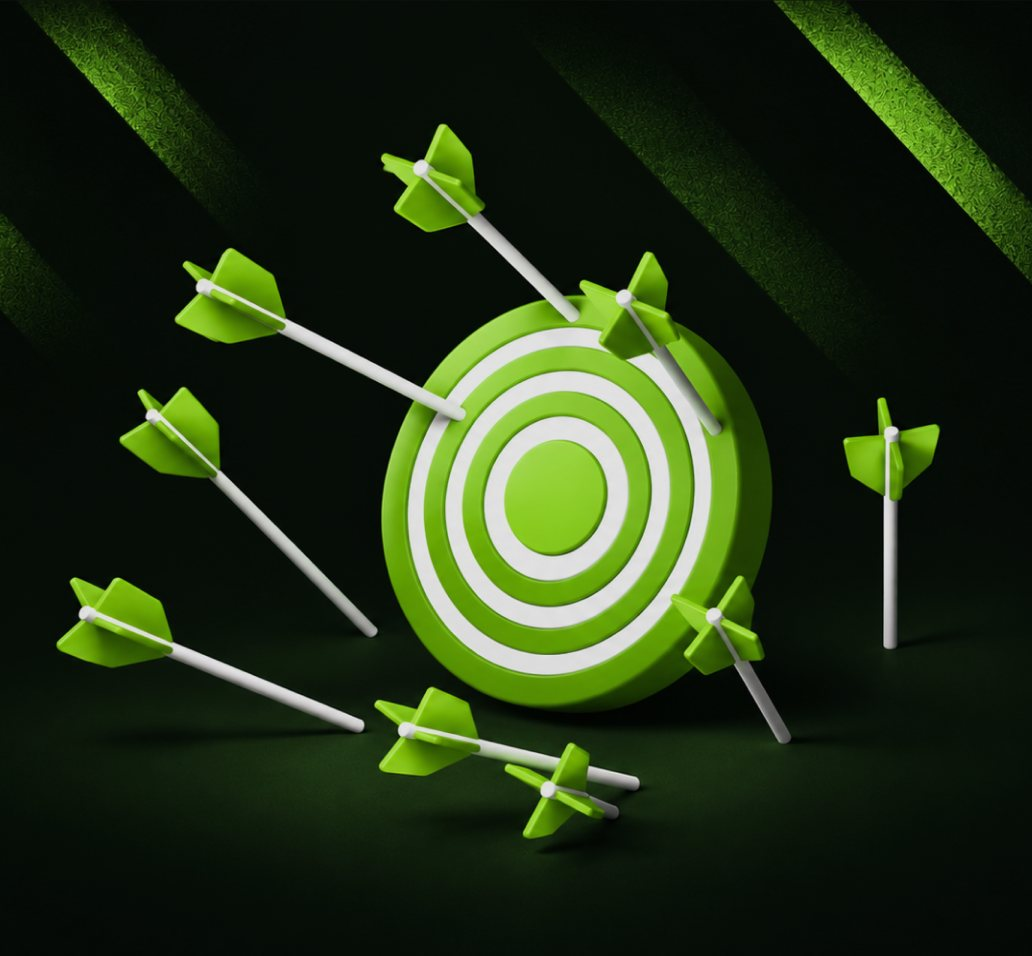
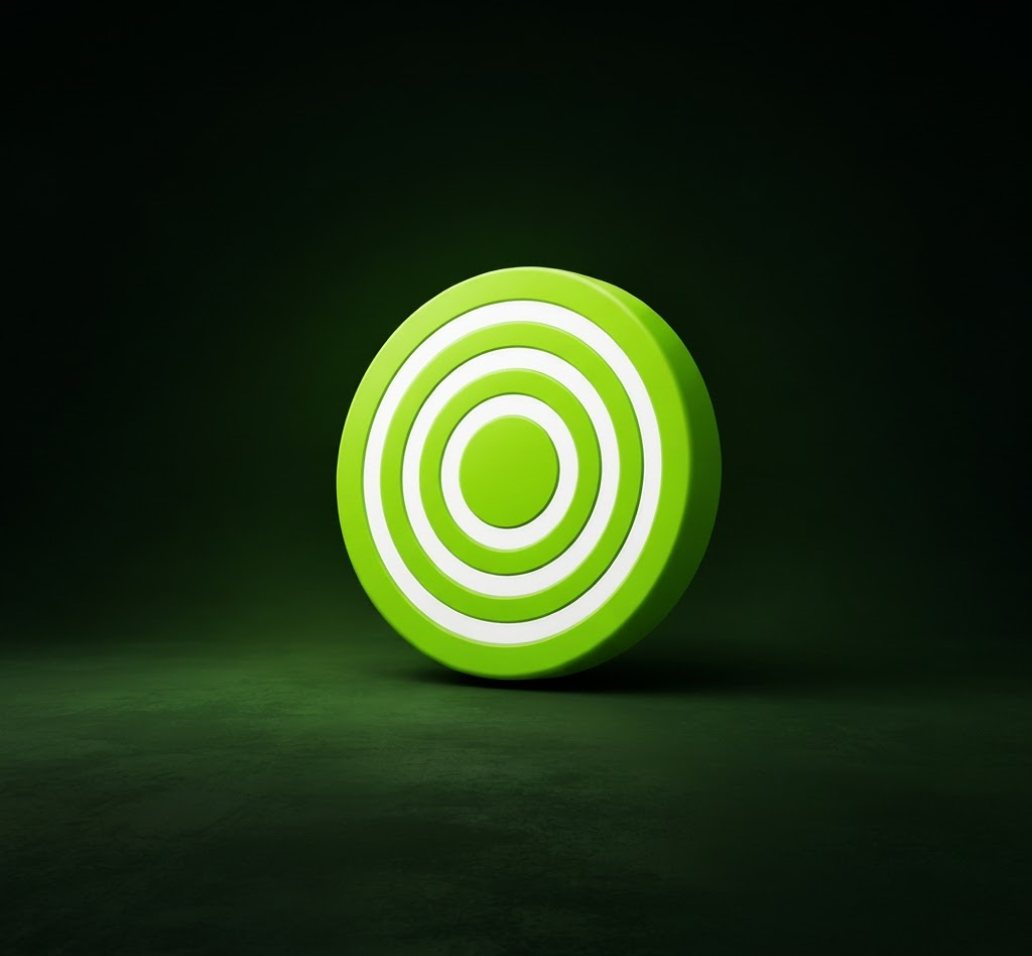
update zdjęć do HCP

diff --git a/projekty/healthy-cities.html b/projekty/healthy-cities.html
@@ -92,7 +92,7 @@
         <div class="case-intro__main">
           <h2 id="intro-title" class="case-intro__title"><span class="case-intro__muted">Nowa aplikacja miała angażować użytkowników, ale </span>problemy z synchronizacją danych wpływały<span class="case-intro__muted"> na ich doświadczenie</span></h2>
           <div class="case-intro__media">
-            <img src="../assets/images/projekty/hc-wprowadzenie.jpg" alt="Szara pinezka lokalizacji" width="400" height="400" loading="lazy">
+            <img src="../assets/images/projekty/hc-wprowadzenie.jpg?v=2" alt="Biała pinezka" width="400" height="400" loading="lazy">
           </div>
         </div>
         <div class="case-intro__side">
@@ -119,7 +119,7 @@
             <p class="case-decision__lead">Zidentyfikowaliśmy 3 obszary wymagające zmian</p>
           </div>
           <div class="case-decision__media">
-            <img src="../assets/images/projekty/hc-kontekst.jpg?v=2" alt="Zielona tarcza z wbitymi rzutkami" width="516" height="478" loading="lazy">
+            <img src="../assets/images/projekty/hc-kontekst.jpg?v=3" alt="Zielona tarcza strzelnicza" width="516" height="478" loading="lazy">
           </div>
         </div>
         <hr class="case-decision__divider">
